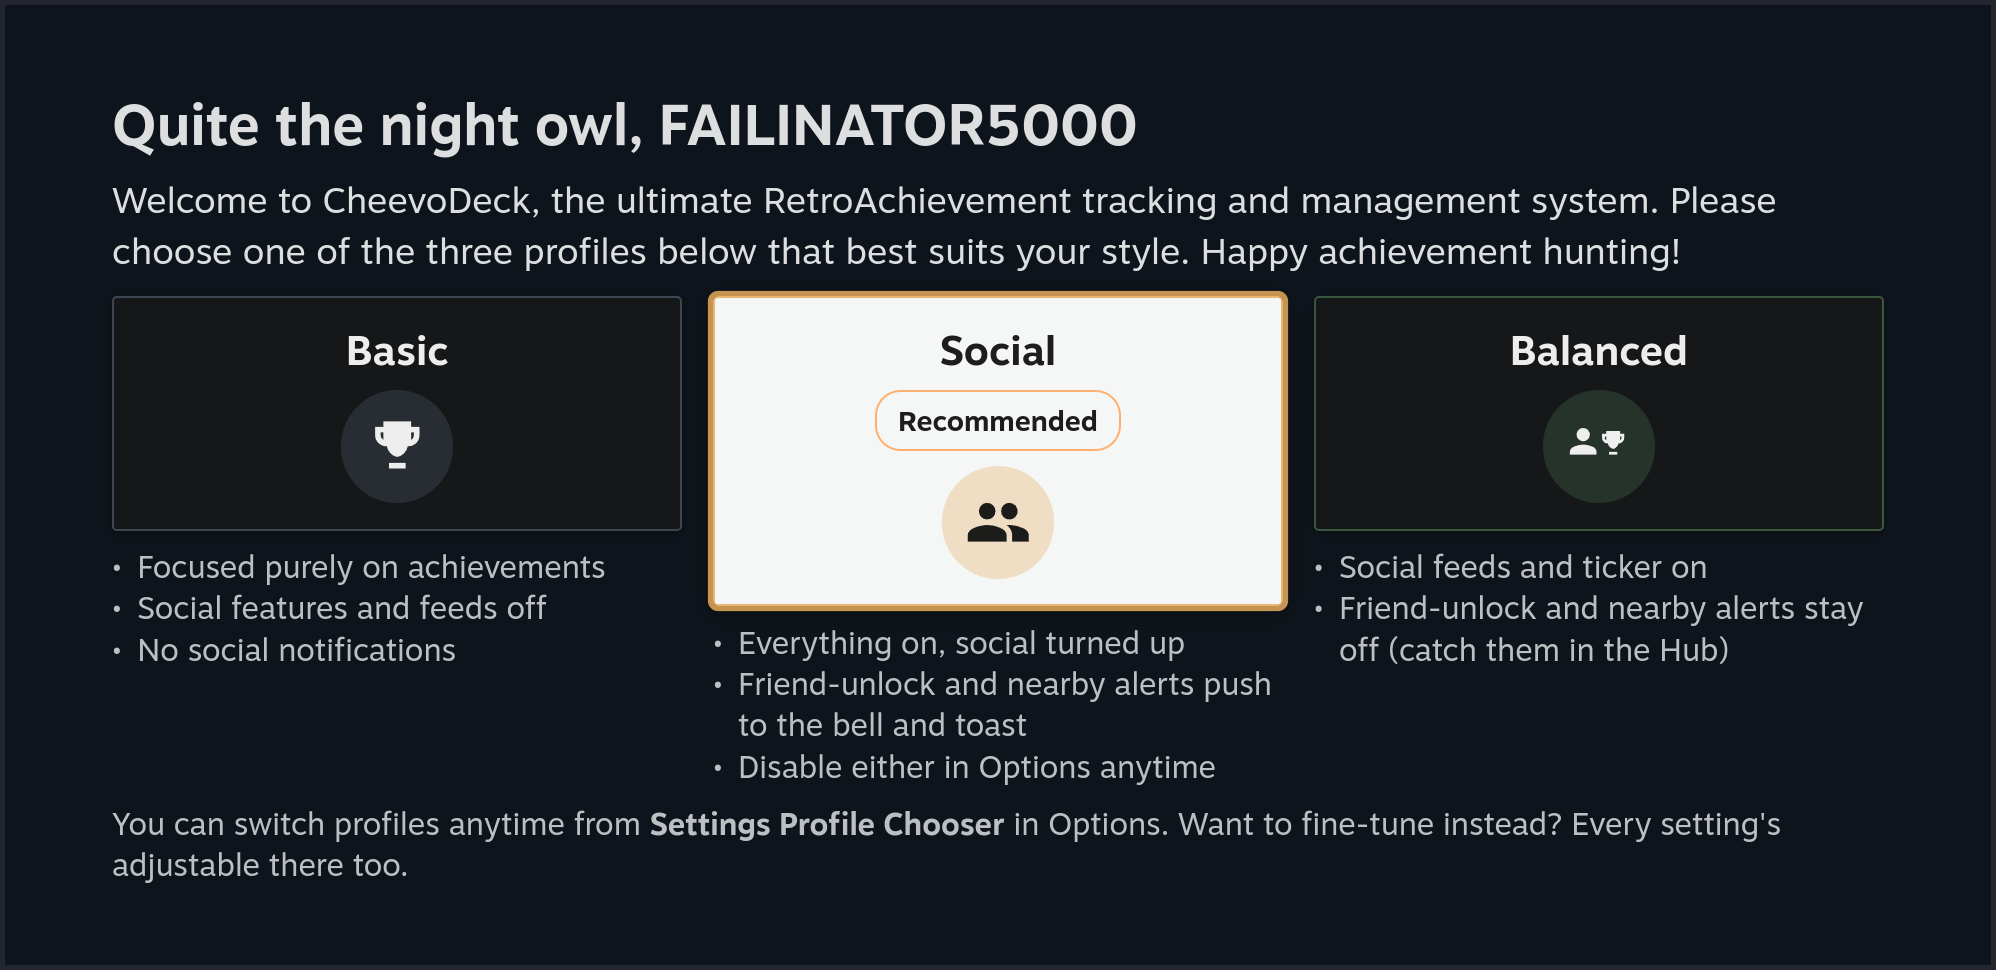
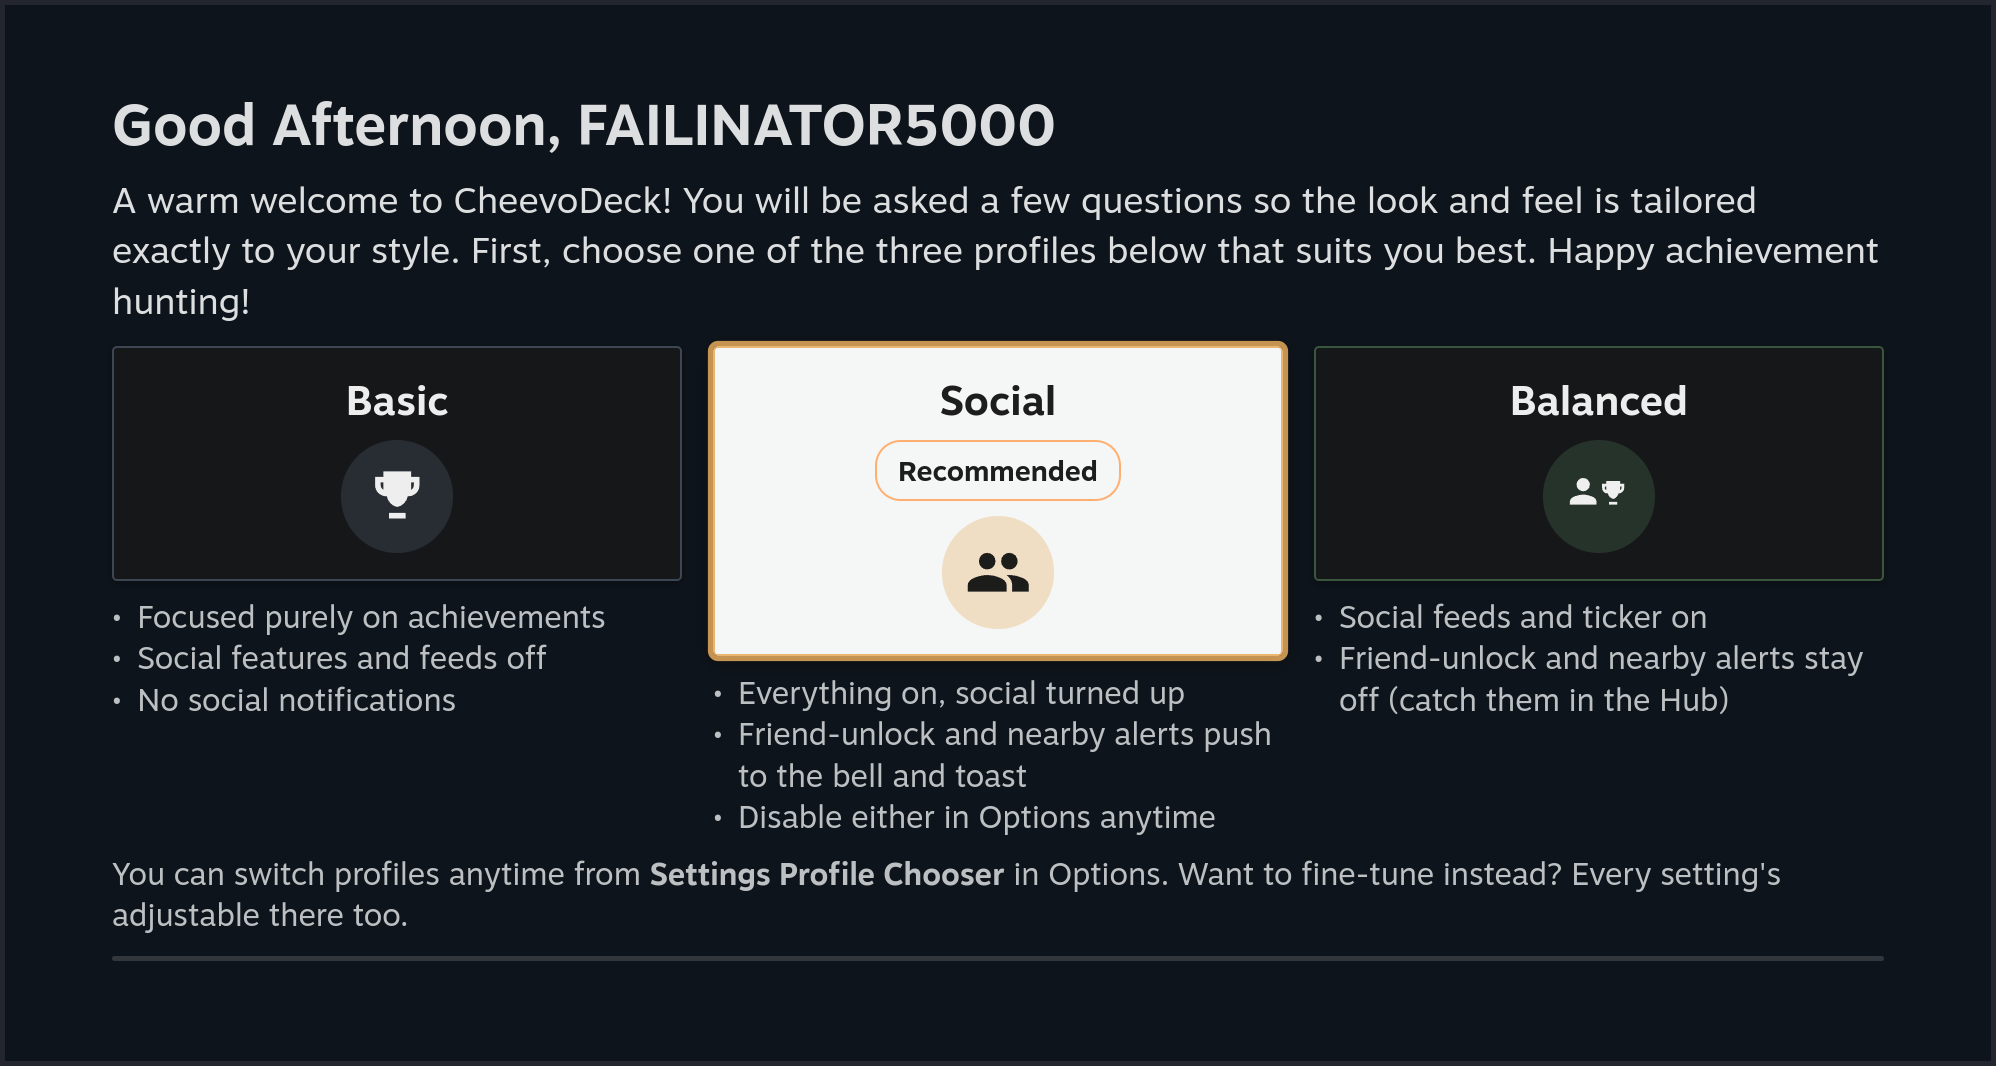
Docs: Add the Milestones and Global Buttons setup steps

diff --git a/README.md b/README.md
@@ -239,11 +239,19 @@ An example of Steam library badges in action.
 
     Nothing here is locked in — you can later further tweak the UI and accessibility settings in the **Options** page.
 
-5. Finally, you will be asked to pick the **Main Menu** layout, choosing between the **Default View** and **Compact View**. This isn't locked in and can be changed anytime in **Options**.
+5. Next, you will be asked to pick the **Main Menu** layout, choosing between the **Default View** and **Compact View**. This isn't locked in and can be changed anytime in **Options**.
 
     <a href="docs/images/getting-started-view-style.webp"><img src="docs/images/getting-started-view-style.webp" width="560"></a>
 
-6. Congratulations! You are now done with the onboarding and can now begin hunting achievements! Here's how it works:
+6. You will now be asked about where you would like the **Milestones** feature button to be located. It can be located either at the top of the **Main Menu** or located in the bottom of your **Quick Menu** drawer.
+
+    <a href="docs/images/getting-started-milestones.webp"><img src="docs/images/getting-started-milestones.webp" width="560"></a>
+
+7. Finally, select whether or not you would like to enable the **Global Buttons** feature. This allows you to summon powerful tools like the Guides Viewer, the custom web browser, notifications, and much more using a button combo and/or your back buttons anywhere, even outside of the CheevoDeck plugin.
+
+    <a href="docs/images/getting-started-global-buttons.webp"><img src="docs/images/getting-started-global-buttons.webp" width="560"></a>
+
+8. Congratulations! You are now done with the onboarding and can now begin hunting achievements! Here's how it works:
 
     1. Start up your RetroAchievements supported game in whichever emulator you choose. Ensure you are logged into your RetroAchievements account within the emulator or front-end first. Once your game is started, RA is notified of the current game you are playing.
 
